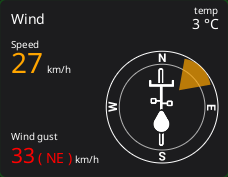
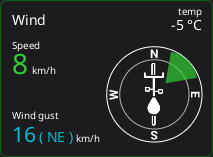
Update wind card

Changed region(s): [[0.0, 0.0, 1.0, 1.0]]

diff --git a/README.md b/README.md
@@ -38,7 +38,7 @@
 * **Advanced Environmental Data:** Stay safe with integrated **Air Quality** monitoring, **UV Index**, and weather conditions (Fog, Temperature).
 * **Wind Awareness:** Unique wind direction and speed indicator to help you manage your effort against headwinds.
 * **Power & Cadence:** Support for external sensors to track power output (Watts) and pedaling cadence (RPM).
-* **Live Mapping:** Integrated OpenStreetMap view to track your route in real-time.
+* **Live Mapping:** Integrated [Gluon Maps](https://github.com/gluonhq/maps) view to track your route in real-time.
 * **GPS Precision:** Detailed location data including city, suburb, and street-level addressing.
 
 ---